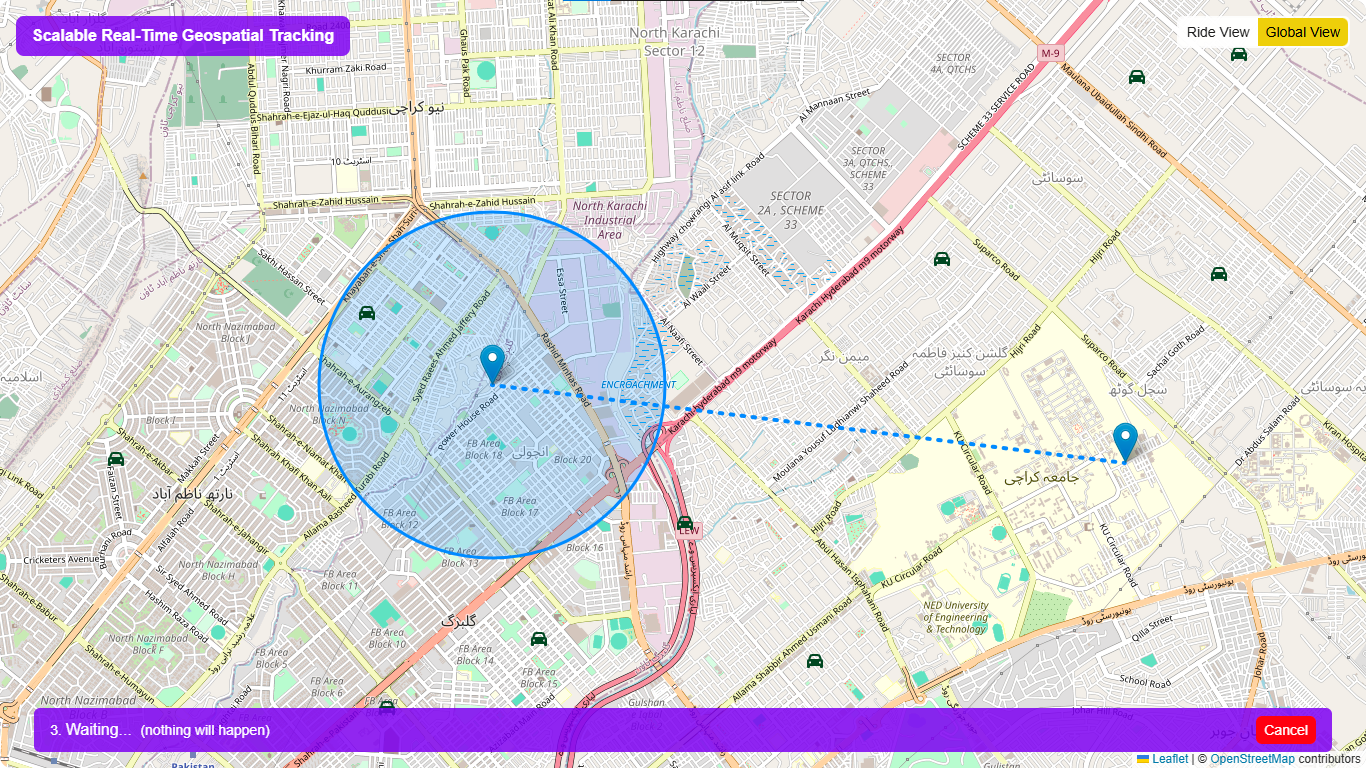
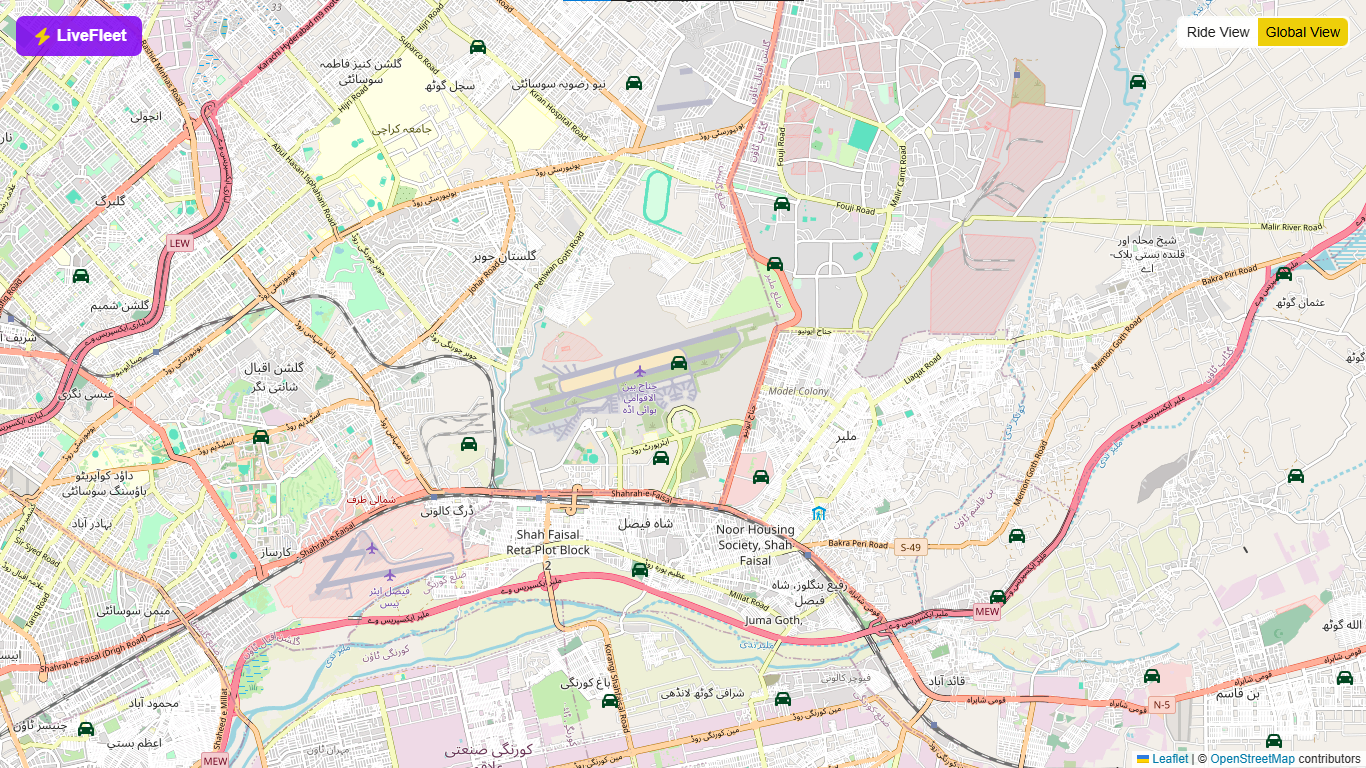
readme

diff --git a/README.md b/README.md
@@ -1,18 +1,16 @@
-# LiveFleet 🗺️ - Scalable Real-Time Geospatial Tracking
+# 🗺️ LiveFleet - Scalable Real-Time Geospatial Tracking
 
 ## 📋 Overview
 
-* 🚀 **Scalable** real-time geospatial driver tracking
-* 🐳 **Decoupled & Dockerized** microservice architecture:
-    * 🖥️ **Frontend:** Next.js + Zustand + Tailwind
-    * ⚙️ **API:** Express + Zod
-    * 📡 **Web Socket Ingestion Server:** Socket.io
-    * ⌛ **Workers**
-    * 🏎️ **Drivers Simulator**
-    * 🗄️ **Redis**
-    * 🌐 **NGINX**
-
-
+- 🚀 **Scalable** real-time geospatial driver tracking
+- 🐳 **Decoupled & Dockerized** microservice architecture:
+    - 🖥️ **Frontend:** Next.js + Zustand + Tailwind
+    - ⚙️ **API:** Express + Zod
+    - 📡 **Web Socket Ingestion Server:** Socket.io
+    - ⌛ **Workers**
+    - 🏎️ **Drivers Simulator**
+    - 🗄️ **Redis**
+    - 🌐 **NGINX**
 
 ---
 
@@ -20,30 +18,36 @@
 
 ---
 
-* 🗺️ **Leaflet-based** interactive map UI
-* 📍 **Redis-backed** geospatial queries
-* ⚡ **Dedicated Socket.IO** websocket ingestion server
-* 🔌 **Separate Express** API server
-* 👑 **Worker** for ping batch ticking with **leader election** coordination
-* 📢 **Redis pub/sub and adapter** for synchronization between multiple servers or instances
-* 🔢 **Multi-precision geohash** room/subscription strategy
-* 📦 **Bounding-box and radius-based** driver queries
-* 🚪 **Dynamic room join/leave** for viewport-driven updates
-* ⚛️ **Next.js frontend** with Zustand for complex state management
-* 🚗 **Driver simulator** for synthetic real-time movement
+- 🗺️ **Leaflet-based** interactive map UI
+- 📍 **Redis-backed** geospatial queries
+- ⚡ **Dedicated Socket.IO** websocket ingestion server
+- 🔌 **Separate Express** API server
+- 👑 **Worker** for ping batch ticking with **leader election** coordination
+- 📢 **Redis pub/sub and adapter** for synchronization between multiple servers or instances
+- 🔢 **Multi-precision geohash** room/subscription strategy
+- 📦 **Bounding-box and radius-based** driver queries
+- 🚪 **Dynamic room join/leave** for viewport-driven updates
+- ⚛️ **Next.js frontend** with Zustand for complex state management
+- 🚗 **Driver simulator** for synthetic real-time movement
 
 ## 🛠️ Tech Stack
 
-* 🐳 **Docker**
-* 💾 **Redis**
-* ⏭️ **Next.js**
-* 🔌 **Socket.io**
-* 🍃 **Leaflet.js**
-* 🎛️ **Zustand**
-* 🕸️ **Nginx**
-* 🗺️ **Ngeohash**
-* ✅ **Zod**
-* 🚂 **Express**
-* 🟢 **Node.js**
-* 📘 **TypeScript**
-* 🌬️ **Tailwind**
+- 🐳 **Docker**
+- 💾 **Redis**
+- ⏭️ **Next.js**
+- 🔌 **Socket.io**
+- 🍃 **Leaflet.js**
+- 🎛️ **Zustand**
+- 🕸️ **Nginx**
+- 🗺️ **Ngeohash**
+- ✅ **Zod**
+- 🚂 **Express**
+- 🟢 **Node.js**
+- 📘 **TypeScript**
+- 🌬️ **Tailwind**
+
+## Tentative
+
+- got out of region bounds cleanup
+- extra padding around bounding box
+- add comparison if new bounding box is similar so dont refetch or join/leave rooms